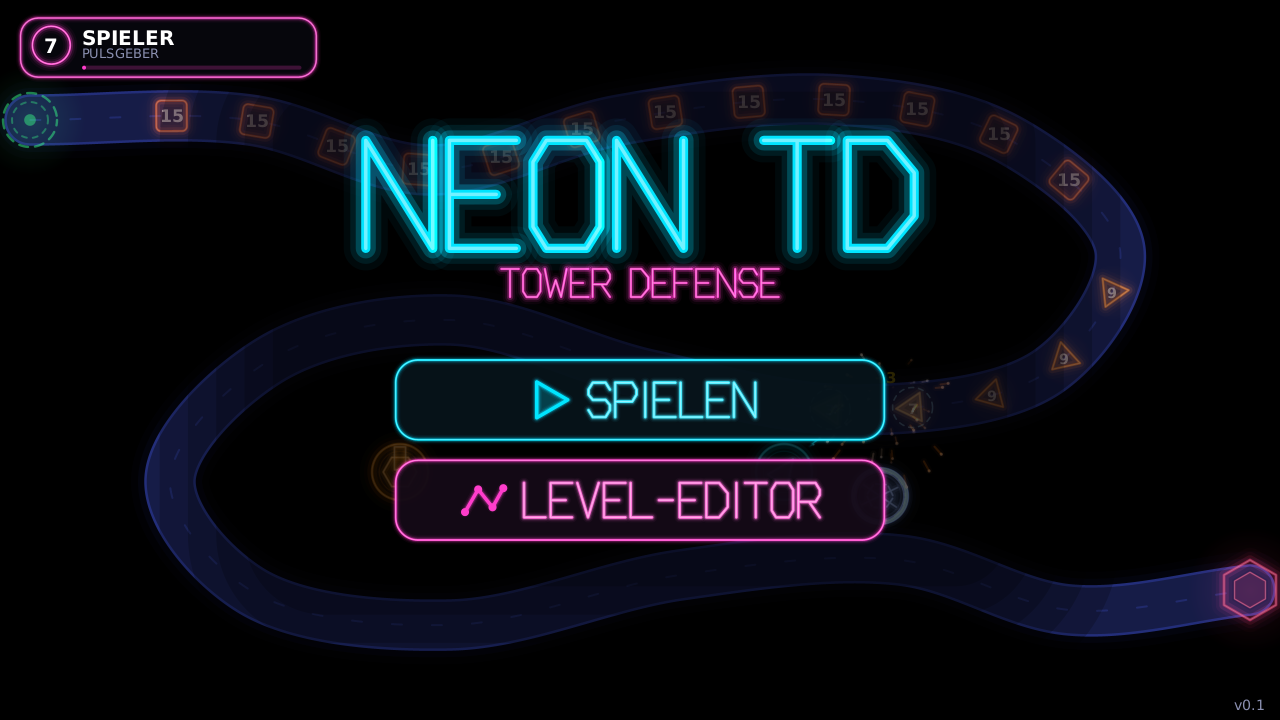
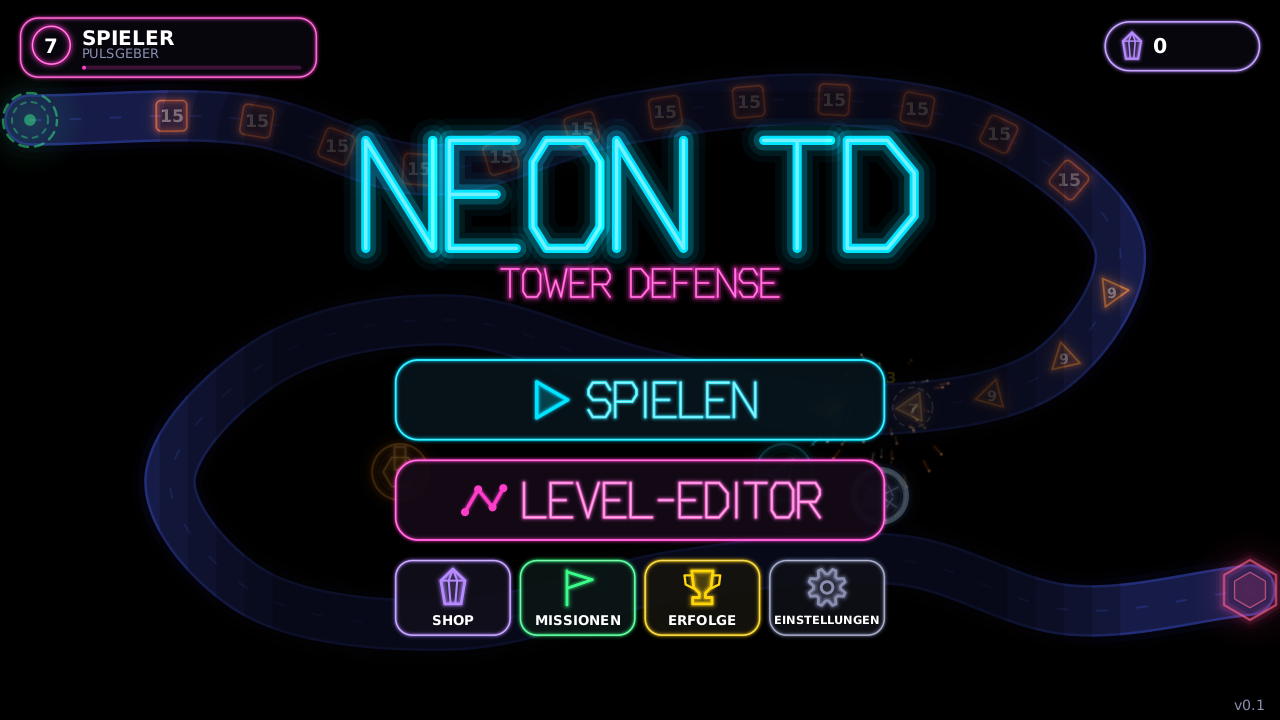
Doku, Screenshots, Season-Titel, Browser-Test für Shop und Elite-Türme
Claude-Session: https://claude.ai/code/session_01KZXZywoB6J5WESCdtRxJgn

Changed region(s): [[0.2812, 0.7639, 0.7188, 0.9167], [0.8438, 0.0, 1.0, 0.1222]]

diff --git a/web/src/main/java/neontd/web/DebugApi.java b/web/src/main/java/neontd/web/DebugApi.java
@@ -52,6 +52,18 @@ final class DebugApi {
                     case "profile":
                         app.goTo(new ProfileScene(app));
                         break;
+                    case "shop":
+                        app.goTo(new neontd.scene.ShopScene(app));
+                        break;
+                    case "missions":
+                        app.goTo(new neontd.scene.MissionsScene(app));
+                        break;
+                    case "achievements":
+                        app.goTo(new neontd.scene.AchievementsScene(app));
+                        break;
+                    case "settings":
+                        app.goTo(new neontd.scene.SettingsScene(app));
+                        break;
                     case "editor":
                         app.goTo(new EditorScene(app, null));
                         break;
@@ -99,6 +111,22 @@ final class DebugApi {
                 java.util.List<neontd.sim.Tower> ts = ((GameScene) s).testWorld().towers;
                 return ts.isEmpty() ? "none" : ts.get(ts.size() - 1).x + "," + ts.get(ts.size() - 1).y;
             }
+            case "crystals":
+                app.progress.addCrystals(Double.parseDouble(arg));
+                app.commitProgress();
+                return "ok";
+            case "buy": {
+                // buy TURM | buy special:KEY – wie ein Kauf im Shop (Level und Kristalle werden geprüft)
+                neontd.progress.Progress.Buy r;
+                if (arg.startsWith("special:")) {
+                    neontd.sim.Special sp = neontd.sim.Special.byKey(arg.substring(8));
+                    r = sp == null ? neontd.progress.Progress.Buy.INVALID : app.progress.buySpecial(sp);
+                } else {
+                    r = app.progress.buyTower(neontd.sim.TowerType.valueOf(arg.toUpperCase()));
+                }
+                app.commitProgress();
+                return r.name();
+            }
             case "money":
                 if (s instanceof GameScene) {
                     ((GameScene) s).testWorld().money = Double.parseDouble(arg);
@@ -110,12 +138,13 @@ final class DebugApi {
                 }
                 return "scene=" + (s instanceof ProfileScene ? "ProfileScene" : s instanceof LevelSelectScene
                         ? "LevelSelectScene" : s instanceof EditorScene ? "EditorScene" : s instanceof MenuScene
-                        ? "MenuScene" : "other");
+                        ? "MenuScene" : s.getClass().getSimpleName());
             case "profile":
                 return "level=" + app.progress.level() + " xp=" + app.progress.xp + " name=" + app.progress.name
                         + " kills=" + app.progress.kills + " waves=" + app.progress.wavesCleared + " won="
                         + app.progress.won.size() + " cloud=" + app.cloud.connected() + " sync=" + app.cloud.status
-                        + " msg=" + app.cloud.message;
+                        + " msg=" + app.cloud.message + " crystals=" + app.progress.crystals() + " towers="
+                        + app.progress.ownedTowers + " day=" + app.progress.dailyDay;
             default:
                 return "unknown command";
         }

diff --git a/core/src/main/java/neontd/scene/ProfileScene.java b/core/src/main/java/neontd/scene/ProfileScene.java
@@ -351,6 +351,12 @@ public final class ProfileScene extends Scene {
         g.text(p.displayName(), nx, yCard + 30 * u, fs, Theme.TEXT, Gfx.ALIGN_LEFT, true);
         Icons.draw(g, Icon.PENCIL, cx + cw - 28 * u, yCard + 30 * u, 9 * u, Theme.TEXT_DIM, 0);
         g.text(p.title(), nx, yCard + 58 * u, Math.max(11, 14 * u), Theme.MAGENTA, Gfx.ALIGN_LEFT, true);
+        String badge = p.seasonBadge();
+        if (badge != null) {
+            double tw = g.textWidth(p.title(), Math.max(11, 14 * u), true);
+            Icons.draw(g, Icon.TROPHY, nx + tw + 18 * u, yCard + 58 * u, 8 * u, Theme.YELLOW, 3);
+            g.text(badge, nx + tw + 32 * u, yCard + 58 * u, Math.max(9, 12 * u), Theme.YELLOW, Gfx.ALIGN_LEFT, true);
+        }
         // XP-Balken
         double bw = cw - 96 * u - 20 * u;
         double barY = yCard + 92 * u;
@@ -415,7 +421,7 @@ public final class ProfileScene extends Scene {
             if (open) {
                 Icons.draw(g, Icon.CHECK, cx + cw - 30 * u, y + rowH / 2 - 2 * u, 9 * u, Theme.GREEN, 3);
             } else {
-                String need = "LEVEL " + t.unlockLevel;
+                String need = t.tier == 2 && p.level() >= t.unlockLevel ? "IM SHOP" : "LEVEL " + t.unlockLevel;
                 double ns = Math.max(10, 12 * u);
                 g.text(need, cx + cw - 16 * u, y + rowH / 2 - 2 * u, ns, Theme.TEXT_DIM, Gfx.ALIGN_RIGHT, true);
                 Icons.draw(g, Icon.LOCK, cx + cw - 16 * u - g.textWidth(need, ns, true) - 14 * u, y + rowH / 2 - 2 * u,
@@ -425,7 +431,7 @@ public final class ProfileScene extends Scene {
         double y = y0 + order.length * rowH + 8 * u;
         g.text("Startgeld  +" + p.startMoneyBonus() + "   ·   Start-Leben  +" + p.startLivesBonus(), cx + 16 * u,
                 y + 8 * u, Math.max(10, 13 * u), Theme.YELLOW, Gfx.ALIGN_LEFT, true);
-        g.text("+10 Startgeld je Level (bis +300), +1 Leben je 5 Level (bis +5)", cx + 16 * u, y + 28 * u,
+        g.text("+10 Startgeld je Level (bis +300), +1 Leben je 5 Level (bis +5), mehr durch Forschung im Shop", cx + 16 * u, y + 28 * u,
                 Math.max(8, 10 * u), Theme.TEXT_DIM, Gfx.ALIGN_LEFT, false);
     }
 

diff --git a/core/src/main/java/neontd/progress/Progress.java b/core/src/main/java/neontd/progress/Progress.java
@@ -616,6 +616,9 @@ public final class Progress {
         }
         seasonClaimed[tier] = true;
         addStat("seasontiers", 1);
+        if (Season.milestone(tier) != null) {
+            stats.put("badge" + tier / 10, 1.0);
+        }
         return addCrystals(Season.crystals(tier));
     }
 
@@ -632,6 +635,16 @@ public final class Progress {
             n += seasonClaimed[t] ? 0 : 1;
         }
         return n;
+    }
+
+    /** Der höchste Season-Titel, den man je erreicht hat (Stufe 10/20/30), oder {@code null}. */
+    public String seasonBadge() {
+        for (int k = 3; k >= 1; k--) {
+            if (stat("badge" + k) > 0) {
+                return Season.milestone(k * 10);
+            }
+        }
+        return null;
     }
 
     // ---- Errungenschaften

diff --git a/core/src/test/java/neontd/progress/ProgressionTest.java b/core/src/test/java/neontd/progress/ProgressionTest.java
@@ -232,6 +232,11 @@ class ProgressionTest {
         p.addSeasonXp(Season.MAX_XP * 2);
         assertEquals(Season.TIERS, p.seasonTier());
         assertEquals(Season.TIERS - 3, p.claimable());
+        assertEquals(null, p.seasonBadge());
+        for (int t = 4; t <= 10; t++) {
+            p.claimSeason(t);
+        }
+        assertEquals("SEASON-STARTER", p.seasonBadge(), "Stufe 10 bringt den Titel");
         assertEquals("SEASON-STARTER", Season.milestone(10));
         assertEquals("SEASON-MEISTER", Season.milestone(30));
         assertTrue(Season.totalCrystals() > 2500 && Season.totalCrystals() < 4500, "Season: " + Season.totalCrystals());

diff --git a/README.md b/README.md
@@ -13,8 +13,15 @@ BBTAN, mit dem Ablauf von Bloons TD. Die gesamte Spiellogik ist in **Java** gesc
 
 ## Was drin ist
 
-- **8 Turmklassen** (5 Klassiker und 3 große, teurere und stärkere), jede mit eigener Rolle und eigenem Neon-Symbol (siehe unten).
-- **3 Upgrade-Kategorien pro Turm** – *Reichweite*, *Schaden* und *Tempo* – mit je 5 Stufen.
+- **16 Turmklassen**: 8 Grundtürme (5 Klassiker und 3 große) und **8 Elite-Türme** mit eigenen Mechaniken (Brand, Gift, Schrot, Gravitation, Münze, Kommando, Prisma, Orbital) – siehe [Die Türme](#die-türme).
+- **Viele Upgrade-Möglichkeiten**: 3 Kategorien pro Turm (*Reichweite*, *Schaden*, *Tempo*, je 5 Stufen, im Endlosmodus mehr),
+  dazu ein **Spezial-Platz** pro Turm mit 16 **Spezial-Upgrades** (Volltreffer, Brandsatz, Henker, Kommandant …) und
+  dauerhafte **Forschung** im Shop – siehe [Spezial-Upgrades](#spezial-upgrades) und [Shop und Kristalle](#shop-und-kristalle).
+- **Elite-Gegner** (Panzer, Schildträger, Sanitäter, Phantom), die jeweils eine andere Antwort verlangen – siehe [Die Gegner](#die-gegner).
+- **Meta-Spiel über Monate**: Kristalle als Währung, **Shop** für Türme, Spezials und Forschung, **tägliche Aufgaben**,
+  **Season-Pass** mit Monatsaufgaben und 30 Stufen, **76 Errungenschaften-Stufen** – so, dass man bei etwa 10 Minuten
+  Spielzeit am Tag rund **vier Monate** braucht, um alles freizuschalten (siehe [Wie lange dauert alles?](#wie-lange-dauert-alles)).
+- **Einstellungen** mit **Spielerlevel zurücksetzen** und **Alles zurücksetzen** (gilt auch im Cloud-Abgleich).
 - **Wellen wie bei Bloons TD**: Welle manuell starten (auch früher!), Tempo 1×/2×/3×, automatischer Wellenstart, Pause.
 - **Gegner tragen ihre Lebenspunkte als Zahl auf sich**. Die Farbe folgt den aktuellen HP (gelb → orange → rot → pink
   → violett → indigo), die Form zeigt die Art.
@@ -122,11 +129,11 @@ Das ZIP enthält `bin/neon-td` (bzw. `neon-td.bat` unter Windows); eine Java-Lau
 | **Wellen** | `START` / `Leertaste`; `1×/2×/3×` (im Endlosmodus bis `5×`) = `F`; Schleife = Auto-Start; Pause = `P` / `Esc` | Schaltflächen in der Leiste (quer rechts, hoch unten) |
 | **Leiste ein-/ausklappen** | – (am Laptop immer sichtbar) | Pfeil-Knopf in der Leiste |
 
-Weitere Tasten: `1`–`8` Turm wählen · `Q` `W` `E` Upgrade Reichweite/Schaden/Tempo · `Tab` Zielwahl · `X`/`Entf`
+Weitere Tasten: `1`–`8` Turm der aktuellen Shop-Seite wählen · `G` Shop-Seite wechseln · `Q` `W` `E` Upgrade Reichweite/Schaden/Tempo · `R` Spezial-Auswahl · `Tab` Zielwahl · `X`/`Entf`
 verkaufen · Rechtsklick bricht ab. Gesperrte Türme (Schloss mit „LV n“) lassen sich erst ab dem genannten Spielerlevel
 bauen.
 
-## Die acht Türme
+## Die Türme
 
 | Turm | Preis | Reichweite | Schaden | Tempo | Rolle |
 |---|---:|---:|---:|---:|---|
@@ -142,6 +149,52 @@ bauen.
 Jede der drei Kategorien hat 5 Stufen: *Reichweite* bis ×1,6 · *Schaden* bis ×7 · *Tempo* bis ×3,1. Die drei farbigen
 Bögen um den Turm zeigen den Ausbau (blau = Reichweite, rot = Schaden, gelb = Tempo).
 
+### Die acht Elite-Türme
+
+Sie kommen aus dem **Shop** (Kristalle, ab einem Spielerlevel) und erscheinen im Turm-Shop des Spiels auf **Seite 2**
+(der Umschalter *SEITE 1/2* erscheint, sobald mehr als acht Türme zur Verfügung stehen).
+
+| Turm | Shop-Preis | ab Level | Bau | Rolle |
+|---|---:|---:|---:|---|
+| **INFERNO** (orange) | 600 | 12 | 480 | Flammenring: trifft alle in Reichweite und setzt sie in Brand (Schaden über Zeit) |
+| **GIFT** (grün) | 800 | 18 | 520 | Jeder Treffer legt einen Giftstapel nach (bis 5); jeder Stapel brennt weiter |
+| **SHREDDER** (pfirsich) | 1000 | 24 | 650 | Schrotsalve aus 7 Kugeln im Fächer – verheerend auf kurze Distanz |
+| **GRAVITON** (indigo) | 1300 | 30 | 700 | Zieht alle Gegner im Feld ein Stück zurück (Titanen kaum) und bremst sie |
+| **MÜNZE** (gold) | 1600 | 36 | 600 | Schießt nicht, erzeugt im Takt Geld – wächst mit den Belohnungen der Wellen (Upgrades: Ertrag, Takt) |
+| **PRISMA** (rosa) | 2000 | 42 | 950 | Dauerstrahl: Solange das Ziel dasselbe bleibt, wächst die Stärke bis auf das Vierfache |
+| **KOMMANDO** (weiß) | 2400 | 48 | 800 | Schießt nicht, verstärkt Schaden und Tempo aller Türme im Umkreis (stapelt sich nicht) |
+| **ORBITAL** (karmin) | 3000 | 55 | 1400 | Schlag auf den *stärksten* Gegner – überall auf der Karte, mit großem Flächenschaden |
+
+### Spezial-Upgrades
+
+Jeder Turm hat einen **Spezial-Platz** (Schaltfläche *SPEZIAL* im Upgrade-Panel, Taste `R`). Welche Spezials dort zur
+Wahl stehen, bestimmst du im Shop: gekaufte Spezials lassen sich im Spiel gegen Geld (das 1,3-Fache des Turmpreises,
+mindestens 150) einbauen und jederzeit tauschen. Die Hilfstürme (Münze, Kommando) tragen nur *Zinsen*.
+
+| Spezial | Wirkung | Shop-Preis | ab Level |
+|---|---|---:|---:|
+| **FERNGLAS** | +30 % Reichweite | 450 | 6 |
+| **VOLLTREFFER** | 18 % Chance auf 2,5-fachen Schaden | 500 | 5 |
+| **ÜBERTAKTUNG** | +25 % Feuerrate | 600 | 8 |
+| **KÄLTEKERN** | Treffer verlangsamen den Gegner | 700 | 10 |
+| **BRANDSATZ** | Treffer setzen Gegner 3 s lang in Brand | 750 | 10 |
+| **DURCHSCHLAG** | Geschosse und Blitze treffen 2 Ziele mehr (nur Kugel- und Blitztürme) | 800 | 12 |
+| **KOPFGELD** | +50 % Prämie für Abschüsse dieses Turms | 850 | 16 |
+| **SPLITTERHÜLLE** | Treffer streuen 30 % Schaden in der Umgebung | 900 | 14 |
+| **HENKER** | Doppelter Schaden gegen Gegner unter 30 % Leben | 1000 | 18 |
+| **RÜSTUNGSBRUCH** | Ziele nehmen 3 s lang 25 % mehr Schaden (von allen Türmen) | 1100 | 22 |
+| **TITANJÄGER** | 1,75-facher Schaden gegen Titanen, Kolosse und Panzer | 1100 | 26 |
+| **SCHOCKFELD** | 12 % Chance, den Gegner 0,7 s zu betäuben | 1300 | 30 |
+| **ZINSEN** | Jede besiegte Welle bringt 4 % des investierten Geldes | 1400 | 34 |
+| **NACHBEBEN** | Abschüsse lösen eine Explosion aus | 1500 | 38 |
+| **RÜCKSTOSS** | Treffer werfen Gegner ein Stück zurück | 1800 | 42 |
+| **KOMMANDANT** | +15 % Schaden für alle Türme im Umkreis | 2200 | 48 |
+
+<p align="center">
+  <img src="docs/screenshots/elite-towers.png" alt="Elite-Türme im Gefecht" width="420">
+  <img src="docs/screenshots/special-choice.png" alt="Auswahl der Spezial-Upgrades" width="420">
+</p>
+
 ## Die Gegner
 
 | Gegner | Form | Besonderheit |
@@ -152,6 +205,14 @@ Bögen um den Turm zeigen den Ausbau (blau = Reichweite, rot = Schaden, gelb = T
 | Mini | Kreis | klein und flink |
 | Koloss | Sechseck | langsam, sehr zäh, kostet 3 Leben |
 | Titan | Achteck | Boss, kostet 10 Leben |
+| **Panzer** | Fünfeck | Treffer unter 3 % seiner Lebenspunkte richten nur 65 % Schaden an – braucht Schwergewichte (Sniper, Mörser, Railgun) |
+| **Schildträger** | Kreis mit Ring | trägt ein Schild (+40 % der HP), das sich auflädt, wenn er 2 s in Ruhe bleibt – Dauerfeuer lohnt sich |
+| **Sanitäter** | Kreuz | heilt alle Gegner in 110 Einheiten alle 1,5 s um 2,5 % – zuerst ausschalten |
+| **Phantom** | Stern | schnell; in den letzten 1,2 s jedes 4,2-s-Zyklus durchsichtig und unverwundbar |
+
+Die Elite-Gegner erscheinen ab Welle 7 (Schild), 10 (Sanitäter, nie in Titan-Wellen), 12 (Panzer) und 15 (Phantom) und
+*ersetzen* einen Teil der Blöcke, damit die Gesamtlast einer Welle gleich bleibt. Brennen, Gift, Betäubung,
+Rüstungsbruch und Schild sind am Gegner sichtbar.
 
 Du startest mit 500 ◆ und 20 Leben (plus Startbonus aus dem Spielerlevel). Abschüsse und besiegte Wellen bringen
 Geld; ein Gegner, der das Ziel erreicht, kostet Leben.
@@ -212,6 +273,71 @@ Dazu gibt es dauerhafte Belohnungen: **+10 Startgeld je Level** (bis +300) und *
 Titel wie *Funke*, *Wächter*, *Architekt* oder *Titanbezwinger* zeigen den Rang. Als Maßstab: Der erste vollständige
 Durchgang von Level 1 bringt Level 4 (772 XP), 1000 Endlos-Wellen etwa Level 63. Die Testspiele aus dem Level-Editor
 zählen nicht für das Profil.
+
+## Shop und Kristalle
+
+**Kristalle** sind die Währung des Meta-Spiels (Symbol ◆ in Violett, oben rechts im Menü und auf allen Shop-Seiten).
+Du bekommst sie
+
+- für **besiegte Wellen** (1 + Welle/25, höchstens +5; Titan-Wellen +3) und **Siege** (+10 beim ersten, danach +3),
+- für **Medaillen** (einmalig je Level: Bronze 6 · Silber 14 · Gold 30 · Platin 70) und **Level-Aufstiege** (+5),
+- aus **Tagesaufgaben**, **Monatsaufgaben**, dem **Season-Pass** und **Errungenschaften**.
+
+Der **Shop** (Hauptmenü → SHOP) hat drei Reiter: **TÜRME** (die acht Elite-Türme), **SPEZIAL** (16 Spezial-Upgrades) und
+**FORSCHUNG** (zehn dauerhafte Boni in Stufen: Startgeld, Zusatzleben, Baurabatt, Restwert, Prämien, Wellenbonus,
+Feuerkraft, Zieloptik, Kristallsuche, Erfahrung – zusammen +10 % Schaden, +8 % Reichweite, −15 % Baukosten, +20 %
+Prämien, +30 % Wellenbonus, +9 % Verkaufswert, +400 Startgeld, +5 Leben, +30 % Kristalle, +30 % XP). Ein Tipp auf eine
+Karte öffnet einen Bestätigungsdialog; Käufe gelten sofort und für immer. Alte Spielstände bekommen einmalig Kristalle
+für das bisher Erreichte (Level, Medaillen, erste Siege).
+
+<p align="center">
+  <img src="docs/screenshots/shop-towers.png" width="290"> <img src="docs/screenshots/shop-specials.png" width="290"> <img src="docs/screenshots/shop-research.png" width="290">
+</p>
+
+## Missionen, Season und Errungenschaften
+
+**Tagesaufgaben:** Jeden Tag (um Mitternacht der Ortszeit) gibt es drei neue Aufgaben – leicht, mittel, schwer – aus
+Abschüssen, Wellen, Titanen, Elite-Gegnern, Türmen, Upgrades, Spezials, Siegen und gestarteten Leveln. Jede bringt
+Kristalle (25 / 40 / 65), XP und Season-XP; alle drei zusammen noch einen **Tagesbonus** (+30 Kristalle). Welche
+Aufgaben es gibt, ergibt sich nur aus dem Datum – jedes Gerät sieht dieselben.
+
+**Season-Pass:** Jeden Monat beginnt eine neue Season. Season-XP kommen aus Tages- und Monatsaufgaben und aus besiegten
+Wellen (1 je 2 Wellen); **30 Stufen** à 150 XP, jede mit Kristallen (30 + 4·Stufe, Stufe 10/20/30 zusätzlich +150/+250/+500
+und ein Titel). Dazu **sechs große Monatsaufgaben** (z. B. 6000 Gegner, 300 Endlos-Wellen, 50 Titanen). Alles ist
+kostenlos; Belohnungen werden mit einem Tipp abgeholt (rote Markierung im Menü, solange etwas wartet).
+
+**Errungenschaften:** 19 Familien mit zusammen **76 Stufen** (Abschüsse, Wellen, Titanen, Elite-Gegner, Türme, Upgrades,
+Spezials, Siege, Medaillen, Platin, Kapitel, Endlos-Wellen, Spielerlevel, Shop-Käufe, Forschung, Aufgaben, Season,
+Kristalle). Jede erreichte Stufe schreibt sofort Kristalle gut und erscheint als Banner im Spiel.
+
+<p align="center">
+  <img src="docs/screenshots/missions.png" width="290"> <img src="docs/screenshots/season.png" width="290"> <img src="docs/screenshots/achievements.png" width="290">
+</p>
+
+## Wie lange dauert alles?
+
+Das Ziel: Wer **etwa 10 Minuten am Tag** spielt (≈ 40 Wellen bei 2–3-fachem Tempo) und die Tagesaufgaben abholt, braucht
+**rund vier Monate**, bis alle Türme, Spezials und Forschungsstufen gekauft sind. Die Summe aller Preise ist **44 660
+Kristalle** (Türme 12 700 · Spezials 16 950 · Forschung 15 010); die Einnahmen liegen bei etwa 350 Kristallen am Tag
+(Wellen ≈ 100, Tagesaufgaben 160, Season ≈ 90, Rest Errungenschaften und Level-Aufstiege). Dazu bremsen die Spielerlevel
+(Elite-Türme ab Level 12 bis 55). Das Modell dafür ist `neontd.progress.EconomyModel` (`java -cp … EconomyModel 40`),
+und `ProgressionTest` prüft die Zahlen:
+
+| Wellen pro Tag | alles freigeschaltet nach |
+|---:|---|
+| 25 (ca. 6 Min) | ≈ 5,5 Monate |
+| 40 (ca. 10 Min) | ≈ 4 Monate |
+| 60 (ca. 15 Min) | ≈ 3 Monate |
+
+## Einstellungen und Zurücksetzen
+
+**Hauptmenü → EINSTELLUNGEN** (Zahnrad): *Profil* (Name, Cloud, Statistik), **SPIELERLEVEL ZURÜCKSETZEN** (Level und XP
+zurück auf 0, Medaillen, Shop, Kristalle und Aufgaben bleiben) und **ALLES ZURÜCKSETZEN** (das ganze Profil bis auf den
+Namen; laufende Spiele werden beendet, eigene Level bleiben). Beides fragt vorher mit einem Dialog nach. Ein
+Zurücksetzen merkt sich seinen Zeitpunkt: Beim Cloud-Abgleich gewinnt immer der Stand mit dem jüngeren Zurücksetzen, es
+kommt also nichts Altes von einem anderen Gerät zurück.
+
+<p align="center"><img src="docs/screenshots/settings.png" width="420"> <img src="docs/screenshots/menu-phone.png" width="170"></p>
 
 ## Endlosmodus
 
@@ -296,7 +422,7 @@ web/       TeaVM-Brücke: Java → JavaScript, Canvas2D, Zeiger-Ereignisse, PWA 
 ```
 
 ```bash
-./gradlew test                  # 105 Tests: Physik, Simulation, Endlos, Fortschritt, Speichern/Cloud-Abgleich, Layouts, Szenen
+./gradlew test                  # 160+ Tests: Physik, Simulation, Elite-Gegner/-Türme/Spezials, Endlos, Fortschritt, Shop, Aufgaben, Speichern/Cloud-Abgleich, Layouts, Szenen
 ./gradlew build                 # alles bauen: Tests, Web (build/dist), Desktop-Paket
 ./gradlew :web:assembleWeb -PdebugJs      # Web-Version unminifiziert, zum Debuggen
 ./scripts/screenshots.sh        # Screenshots der Doku neu erzeugen (läuft ohne Fenster)

diff --git a/docs/ENTWICKLUNG.md b/docs/ENTWICKLUNG.md
@@ -226,6 +226,9 @@ echter Zeilenumbruch im JavaScript und die Seite startet nicht – der Browser-T
 | `BalanceTest` | Bot gewinnt Level 1, faule Strategie verliert, Wellenkurve wächst stetig |
 | `EndlessTest` | Sieg → Endlos weiter, Wellen bis 1200 im Zahlenrahmen, Meisterstufen und Preise, Geld-/Schaden-Überlauf, früher Wellenstart, Bot in Welle 150 |
 | `ProgressTest` | XP-Kurve, Freischaltungen, Startbonus, Titel, Rekorde, Überlauf |
+| `EliteTest` | Elite-Gegner (Schild, Panzer, Heiler, Phantom), alle acht Elite-Türme, alle Spezial-Upgrades, Perks, Speichern/Wiederherstellen von Spezial und Schild |
+| `ProgressionTest` | Kristalle, Shop-Käufe, Forschung, Tages- und Monatsaufgaben, Season, Errungenschaften, Zurücksetzen und Cloud-Merge, Kalender, **Tempo der Freischaltungen** |
+| `MetaFlowTest` | Shop kaufen, Missionen abholen, Einstellungen/Zurücksetzen, Elite-Seite im Turm-Shop, Spezial-Auswahl im Spiel – jeweils per Tippen wie ein Spieler; alle Meta-Szenen in sechs Fenstergrößen |
 | `SaveTest` | JSON, Base64, Profil-Speicher und -Merge, Lauf speichern/wiederherstellen (auch beschädigt), Level-Zeitstempel |
 | `SyncTest` | Cloud-Abgleich zweier Geräte gegen einen nachgebauten Gist-Server, Fehlerfälle, Trennen, Export-Code |
 | `GameLayoutTest` | Kartengröße auf iPhone-Maßen, keine Überlappungen, Koordinaten-Umrechnung inkl. Drehung |
@@ -234,6 +237,8 @@ echter Zeilenumbruch im JavaScript und die Seite startet nicht – der Browser-T
 | `SceneSmokeTest` | Alle Szenen in sechs Fenstergrößen mit Tippen, Ziehen und Tasten; prüft u. a. ausgeglichenes `save/restore` und keine `NaN`-Werte |
 | `desktop/ScreenshotTool` | Startet das Spiel ohne Fenster, führt ein Skript aus (Klicks, Ziehen, Tasten) und speichert PNGs – siehe `scripts/screenshots.sh` |
 | `desktop/IconGenerator` | Erzeugt die App-Icons (`web/src/main/webapp/icons`) |
+| `sim/Calibrate` | Messwerkzeug: Lebenspunkte-Faktor je generiertem Level (`LIMIT`) per Bot kalibrieren; `lives <Regex>` zeigt das Ergebnis mit dem eingestellten Faktor |
+| `progress/EconomyModel` | Messwerkzeug: spielt Tag für Tag mit der echten `Progress`-Logik und nennt den Tag, an dem alles gekauft ist (`… EconomyModel 40` = 40 Wellen/Tag) |
 | `sim/EndlessProbe` | Messwerkzeug: Bot spielt den Endlosmodus und gibt Kennzahlen je 100 Wellen aus |
 | `scripts/web-smoke.mjs` | Browser-Test der echten Web-Version in Chromium (siehe unten) |
 
@@ -252,3 +257,28 @@ Die Simulation selbst ist billig (≈0,01 ms pro Schritt); teuer sind Effekte un
 ## Kapitel und Level-Generator
 
 `Levels.builtins()` liefert einmalig (gecacht) 150 Level: `chapter(c)` die 15 eines Kapitels, `prerequisite(level)` das Level, dessen Bronze nötig ist. Level 1 jedes Kapitels sind die handgebauten (IDs unverändert, alte Spielstände bleiben gültig), Level 2–15 entstehen in `generate`/`gen*` aus Formparametern und ganzzahlig gerundeten Punkten (überall identisch, auch in TeaVM). Der Lebenspunkte-Faktor kommt aus der Tabelle `LIMIT` (größter Faktor, den der Bot noch mit ≥ 10 Leben besteht) × Rampe 40 %→80 % (+1,5 % je Kapitel). Nach Änderungen an Pfaden, Wirtschaft oder `AutoPlayer` die Tabelle neu erzeugen: `java -cp core/build/classes/java/main:core/build/classes/java/test neontd.sim.Calibrate` (≈ 2 Minuten, parallel) und die Zahlen in `LIMIT` ersetzen; `LevelsTest` prüft alle 150 Level (gültig, Bauplätze, Bot gewinnt mit ≥ 5 Leben).
+
+## Elite-Gegner, Elite-Türme und Spezial-Upgrades (Simulation)
+
+- **Gegner** (`EnemyType`: `ARMORED`, `SHIELD`, `HEALER`, `GHOST` am Ende des Enums, damit gespeicherte Ordnungszahlen gültig bleiben): Zustände stehen in `Enemy` (Schild, Brennen/Gift als `dotDps`/`dotTimer`, Betäubung, Rüstungsbruch, `lastHitBy`). `World.updateStatus` läuft je Gegner und Schritt (Betäubung, DOT, Schild-Aufladung, Heilung); `Enemy.phased()` macht Phantome unverwundbar (`targetable()` ist falsch). `WaveFactory.wave` fügt sie ab Welle 7/10/12/15 ein und **zieht dafür Blöcke ab**, damit die Last gleich bleibt (der Bot erreicht danach weiter Welle 300+; die `LIMIT`-Tabelle wurde neu kalibriert).
+- **Schadensweg** (`World.damage(Enemy, int, Tower)`): Spezial-Multiplikatoren (Volltreffer, Henker, Titanjäger) → Rüstungsbruch → Panzerung → Schild → Leben → Treffer-Effekte des Spezials (`onHitSpecial`). `src == null` (Streuschaden, Nachbeben) löst keine Spezials aus – das verhindert Kettenreaktionen. Zufall kommt aus einem `Rng` mit festem Seed (überall dieselbe Folge).
[1 lines of base64/hex data omitted]
+- **Spezial** (`Special`): `allowedFor(TowerType)`, Einbau über `World.setSpecial` (Geld, `invested`, Tausch erlaubt); in Snapshots als Ordinalzahl + 1.
+- **Perks** (`neontd.sim.Perks`): Forschungsboni (Schaden, Reichweite, Baurabatt, Restwert, Prämien, Wellenbonus) werden mit `World.setPerks` gesetzt; Standard `Perks.NONE` lässt Tests und Bot-Läufe unverändert.
+
+## Meta-Spiel: Kristalle, Shop, Aufgaben, Season, Errungenschaften
+
+Alles liegt im `Progress`-Profil und damit im selben JSON/Cloud-Weg (`ProfileJson`):
+
+- **Guthaben** = `crystalsEarned` (nur wachsend) − `spentCrystals()` (aus dem Besitz berechnet: gekaufte Türme, Spezials, Forschungsstufen). So genügt beim Zusammenführen: Verdient = Maximum, Besitz = Vereinigung/Maximum; danach wird `crystalsEarned ≥ spent` erzwungen (nie negativ).
+- **Ereignisse**: `onWaveCleared(wave, boss, endless)`, `onWon`, `onPlayStarted`, `onMedals`, `addMetric(Metric, n)` (Abschüsse, Titanen, Elite-Gegner, Türme, Upgrades, Spezials) füttern Zähler, Tages-/Monatsaufgaben und Season-XP. Die Spielszene ruft sie über ihren `Listener` auf; Editor-Testspiele zählen nicht.
+- **Aufgaben** (`Quests`): rein aus Tageszahl bzw. Monats-Kennung abgeleitet (Hash), nichts davon wird gespeichert außer dem Fortschritt. `Progress.refreshPeriods(day)` setzt Tag/Monat um; `App.checkPeriods` ruft es beim Start und alle 5 s auf. Tageswechsel = Mitternacht der Ortszeit (`Platform.localOffsetMillis`); rückwärts springende Uhren werden ignoriert.
+- **Season** (`Season`): 30 Stufen à 150 XP, Kristalle je Stufe, Titel bei 10/20/30 (`seasonBadge`).
+- **Errungenschaften** (`Achievements`): 19 Familien, `Progress.checkAchievements()` schreibt Stufen mit Kristallen gut (auch Folgestufen, die dadurch erreicht werden).
+- **Zurücksetzen**: `resetPlayerLevel`/`resetAll` setzen `resetEpoch` (ms). `ProfileJson.merge` nimmt bei verschiedenen Epochen den Stand mit der größeren komplett – ein Reset kann nicht vom anderen Gerät rückgängig gemacht werden. `App.resetEverything` beendet zusätzlich gespeicherte Läufe.
+- **Alte Spielstände**: `grantLegacyCrystals()` schreibt einmalig Kristalle für Level, Medaillen und erste Siege gut (Marker `stats["legacy"]`).
+- **Wirtschaft**: `EconomyModel` ist das Modell hinter „Wie lange dauert alles?“ (README). Wer Preise, Einnahmen oder Level-Grenzen ändert, startet es und passt die Zahlen an; `ProgressionTest.fullUnlockTakesMonthsAtAboutTenMinutesAPlayDay` hält den Rahmen (75–200 Tage bei 40 Wellen/Tag).
+
+## Bildschirme des Meta-Spiels (`PanelScene`)
+
+`PanelScene` ist die gemeinsame Grundlage von `ShopScene`, `MissionsScene`, `AchievementsScene` und `SettingsScene`: Zurück-Taste, Titel, Kristall-Anzeige, Reiter, scrollbarer Inhalt (Ziehen mit Schwung, Mausrad), Hinweisleiste und Bestätigungsdialog (`confirm`/`inform`). Unterklassen zeichnen in `drawContent` und melden antippbare Flächen mit `hit(x, y, w, h, tag)`; der Tipp kommt als `onTap(tag)`. Im Spiel zeigt `GameScene` den Turm-Shop in **Seiten à 8** (`GameLayout.TOWERS`, Umschalter `pager`; Kacheln werden aus `shopList` belegt) und öffnet die Spezial-Auswahl als eigenes Overlay (`Overlay.SPECIAL`, pausiert das Spiel, seitenweise Liste).
